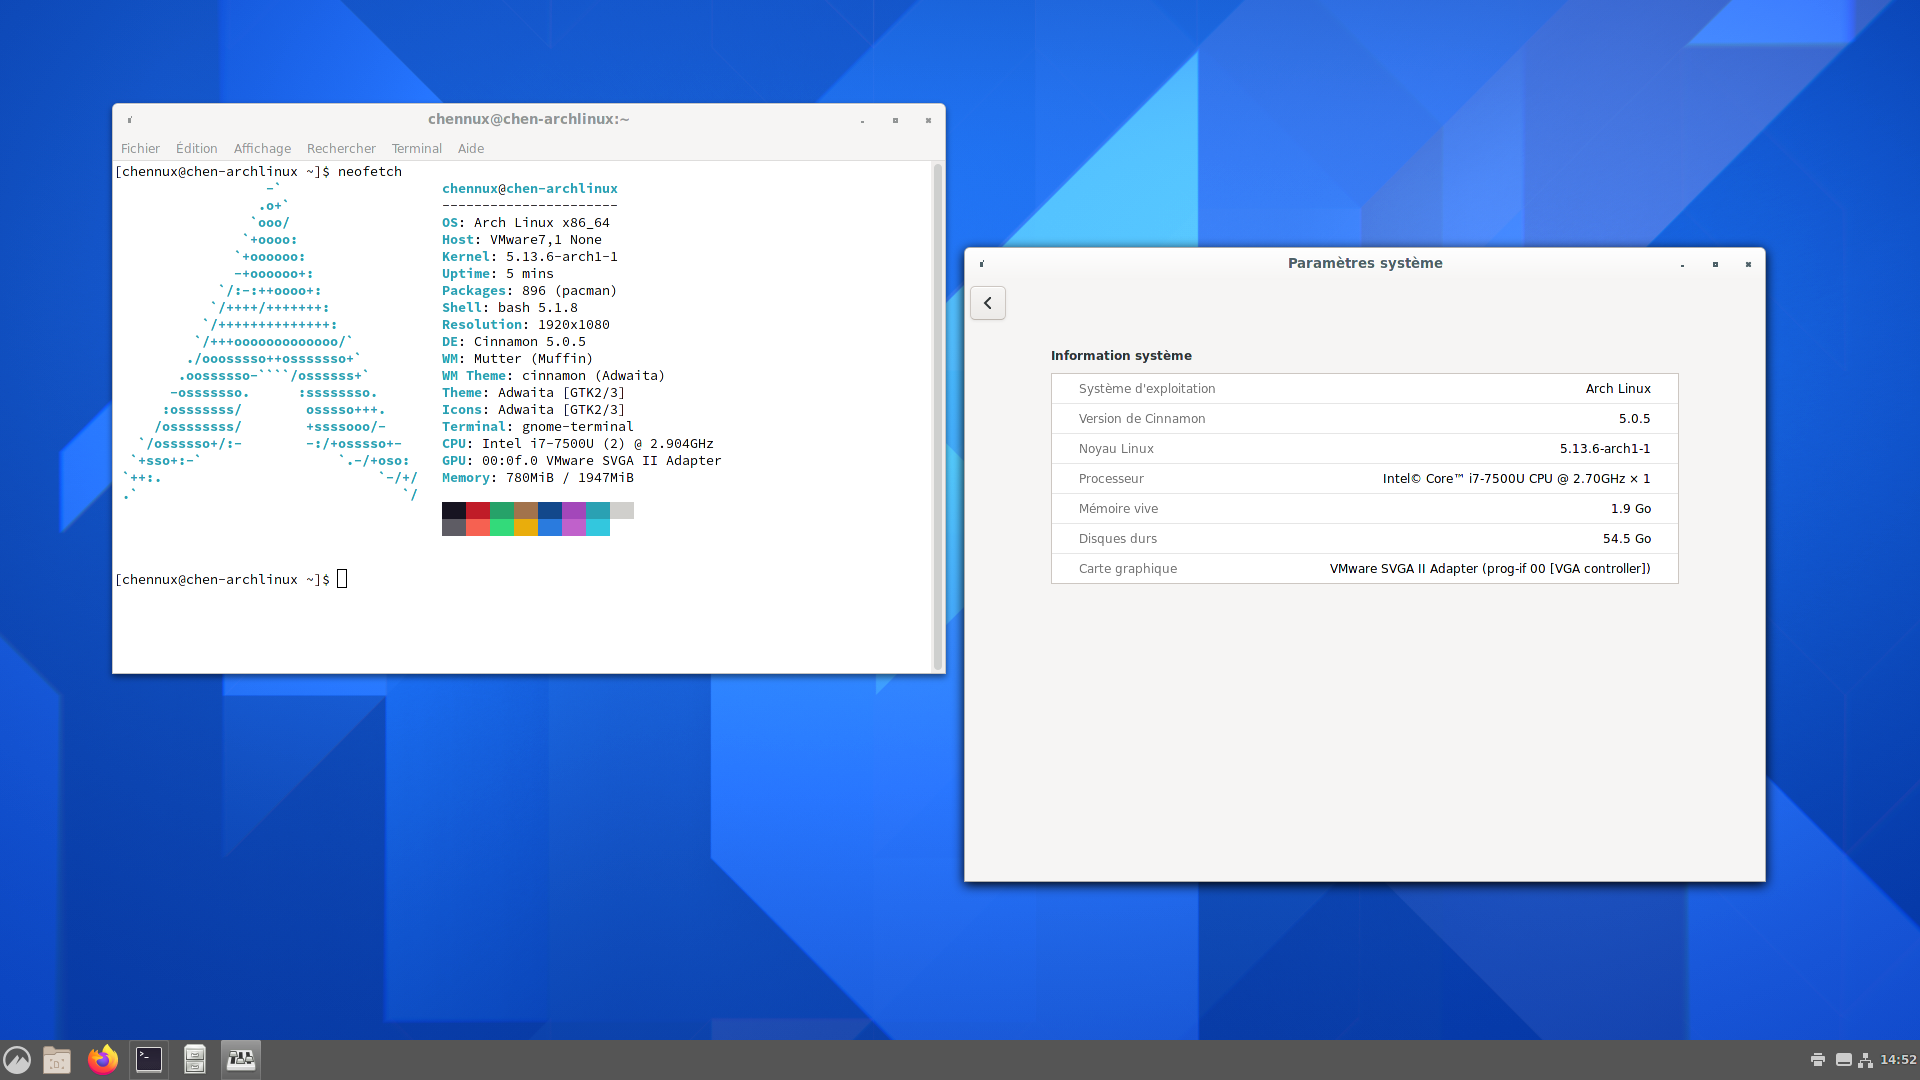
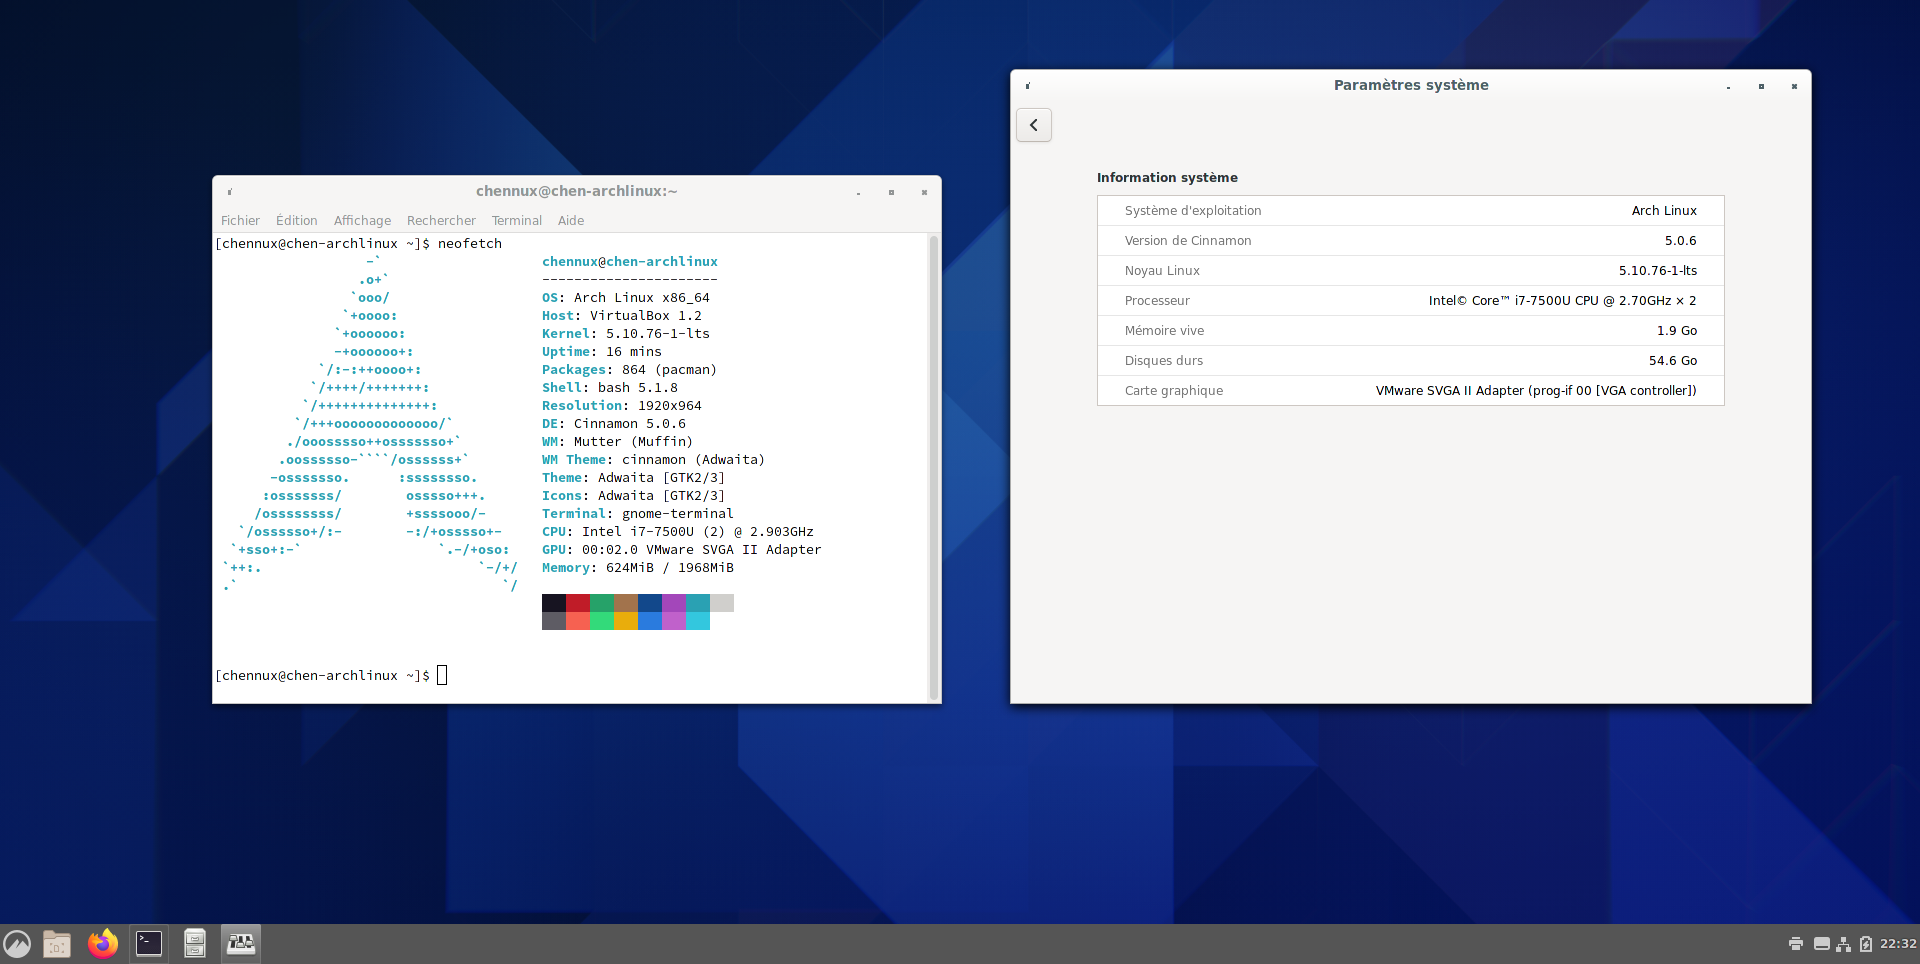
modifié :         install.md 	modifié :         pictures/cinnamon.png

diff --git a/install.md b/install.md
@@ -8,7 +8,7 @@ Sommaire
             * [a) Installons GNOME](#a-installons-gnome)<br>
             * [b) Installons KDE Plasma](#b-installons-kde-plasma)<br>
             * [c) Installons Xfce, Mate ou Cinnamon](#c-installons-xfce-mate-ou-cinnamon)<br>
-            * [d) Installons LXQt](#f-installons-ou-lxqt)<br>
+            * [d) Installons LXQt](#d-installons-lxqt)<br>
 
 Créé par [gh-md-toc](https://github.com/ekalinin/github-markdown-toc)
 
@@ -111,10 +111,10 @@ Autrement dit, nous allons utiliser uniquement des miroirs français et britanni
 On passe à l’installation de la base. La deuxième ligne rajoute certains outils bien pratiques à avoir dès le départ. On peut ensuite s’attaquer à l’installation proprement dite.
 
 ```
-pacstrap /mnt base linux linux-firmware base-devel pacman-contrib man-{db,pages,pages-fr} texinfo btrfs-progs 
-pacstrap /mnt zip unzip p7zip nano mc alsa-utils syslog-ng mtools dosfstools lsb-release ntfs-3g exfatprogs bash-completion
+pacstrap /mnt base linux linux-{headers,firmware} base-devel pacman-contrib man-{db,pages,pages-fr} texinfo btrfs-progs 
+pacstrap /mnt zip unzip p7zip nano mc alsa-utils syslog-ng mtools dosfstools lsb-release ntfs-3g exfatprogs bash-completion ntp cronie
 ```
-Si on veut utiliser un noyau linux long terme, il faut remplacer sur la première ligne pacstrap le paquet linux par linux-lts. Pour ntfs-3g, c’est utile si vous êtes amené à utiliser des disques formatés en ntfs. Si ce n’est pas le cas, vous pouvez l’ignorer allègrement.
+Si on veut utiliser un noyau linux long terme, il faut remplacer sur la première ligne pacstrap le paquet linux par linux-lts et linux-headers par linux-lts-headers. Pour ntfs-3g, c’est utile si vous êtes amené à utiliser des disques formatés en ntfs. Si ce n’est pas le cas, vous pouvez l’ignorer allègrement.
 
 **Note :** exfatprogs, remplaçant exfat-utils, est utile pour la prise en charge des cartes SD de grande capacité.
 
@@ -291,11 +291,7 @@ II) Commençons l'installation de l'environnement graphique !
 
 Nous attaquons donc la partie la plus intéressante, l’installation de l’environnement graphique. Il y a des étapes communes à tous les environnements. 
 
-Une fois le système démarré, on se connecte **en root**. Étant donné que j’ai installé NetworkManager à l’étape précédente, le réseau fonctionne directement. J’ajoute ntp (synchronisation de l’heure en ligne) et cronie (pour les tâches d’administration à automatiser). 
-
-```
-pacman -Syu ntp cronie
-```
+Une fois le système démarré, on se connecte **en root**. Étant donné que j’ai installé NetworkManager à l’étape précédente, le réseau fonctionne directement.
 
 **Note :** si on veut avoir les logs en clair en cas de problème, il faut modifier avec nano (ou vim) le fichier /etc/systemd/journald.conf en remplaçant la ligne :
 
@@ -598,9 +594,9 @@ sudo systemctl enable lightdm
 
 *Mate Desktop 1.26.0*
 
-![Cinnamon 5.0.5](pictures/cinnamon.png)
+![Cinnamon 5.0.6](pictures/cinnamon.png)
 
-*Cinnamon 5.0.5*
+*Cinnamon 5.0.6*
 
 #### d) Installons LXQt
 
@@ -620,7 +616,7 @@ Xterm est installé, car il est indispensable pour faire fonctionner l’appliqu
 
 Pour installer LXQt :
 ```
-sudo pacman -S lxqt breeze-icons sddm vlc xarchiver xscreensaver qmmp libstatgrab lm_sensors xcursor-themes claws-mail pavucontrol pulseaudio-alsa notepadqq qpdfview xterm network-manager-applet pavucontr system-config-printer → (pour installer le support des imprimantes)
+sudo pacman -S lxqt breeze-icons sddm vlc xarchiver xscreensaver qmmp libstatgrab lm_sensors xcursor-themes claws-mail pulseaudio-alsa notepadqq qpdfview xterm network-manager-applet system-config-printer → (pour installer le support des imprimantes)
 ```
 
 Pour lancer LXQt, il faut entrer dans un premier temps :
